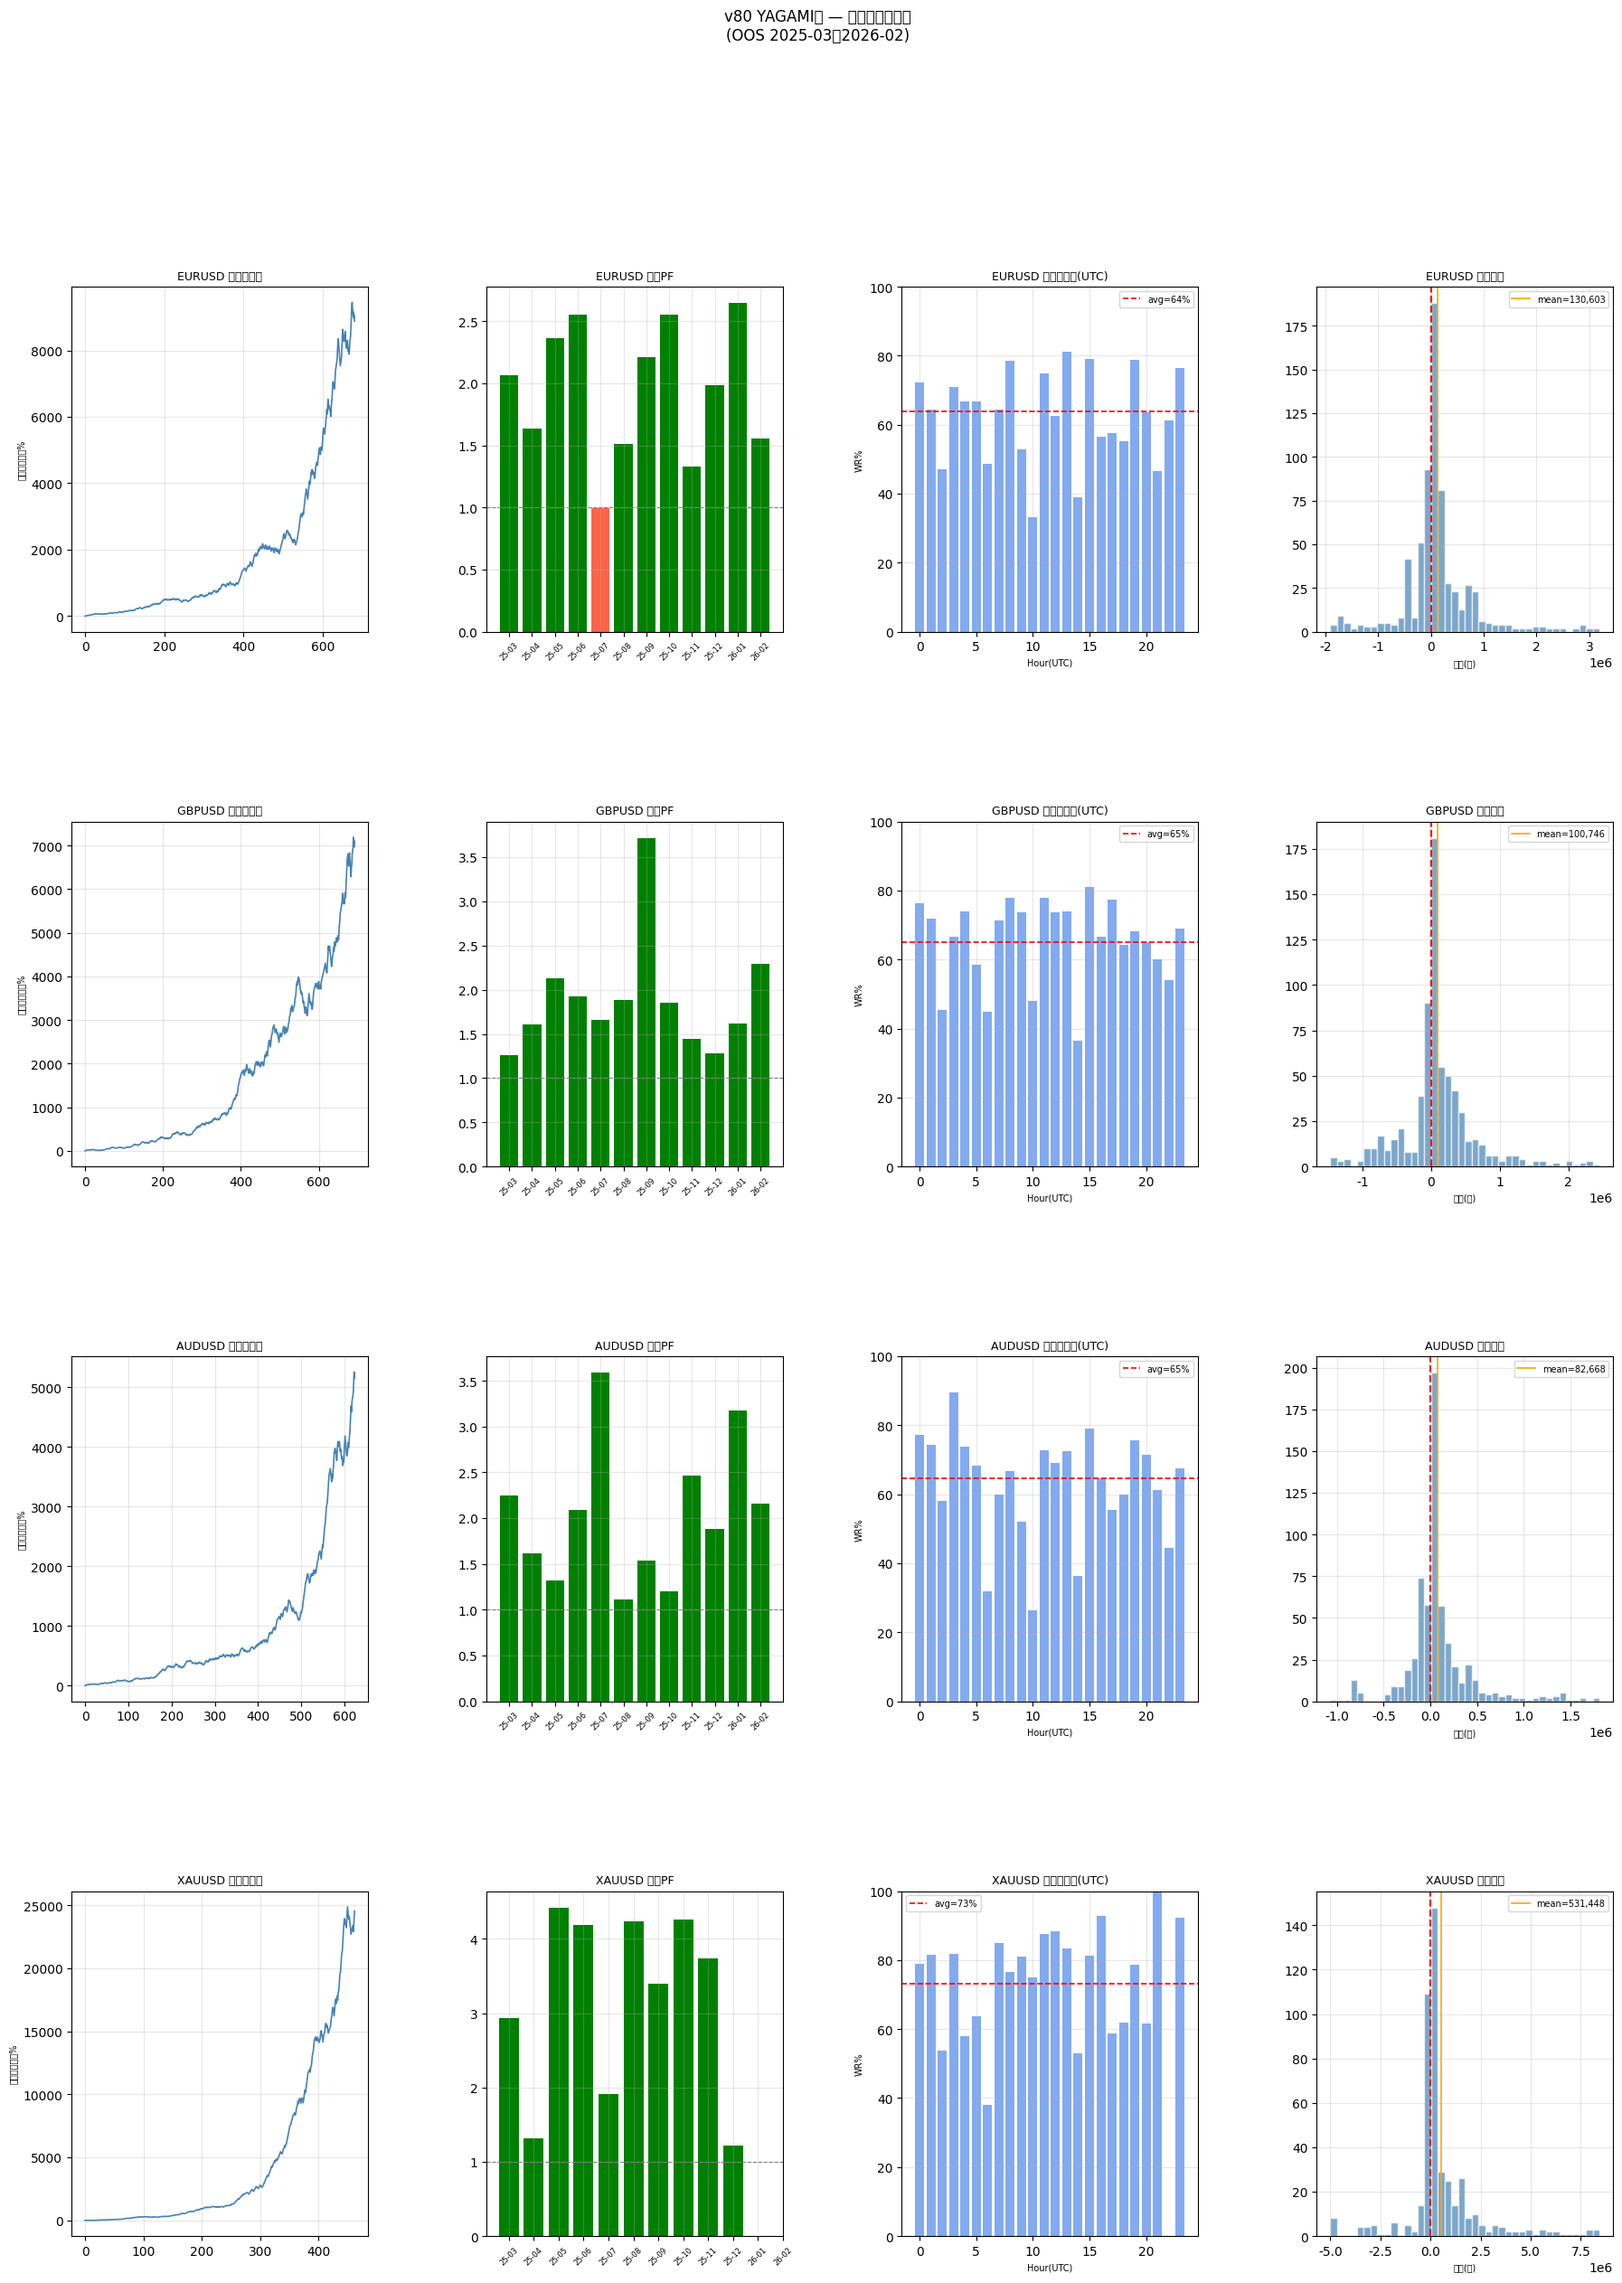
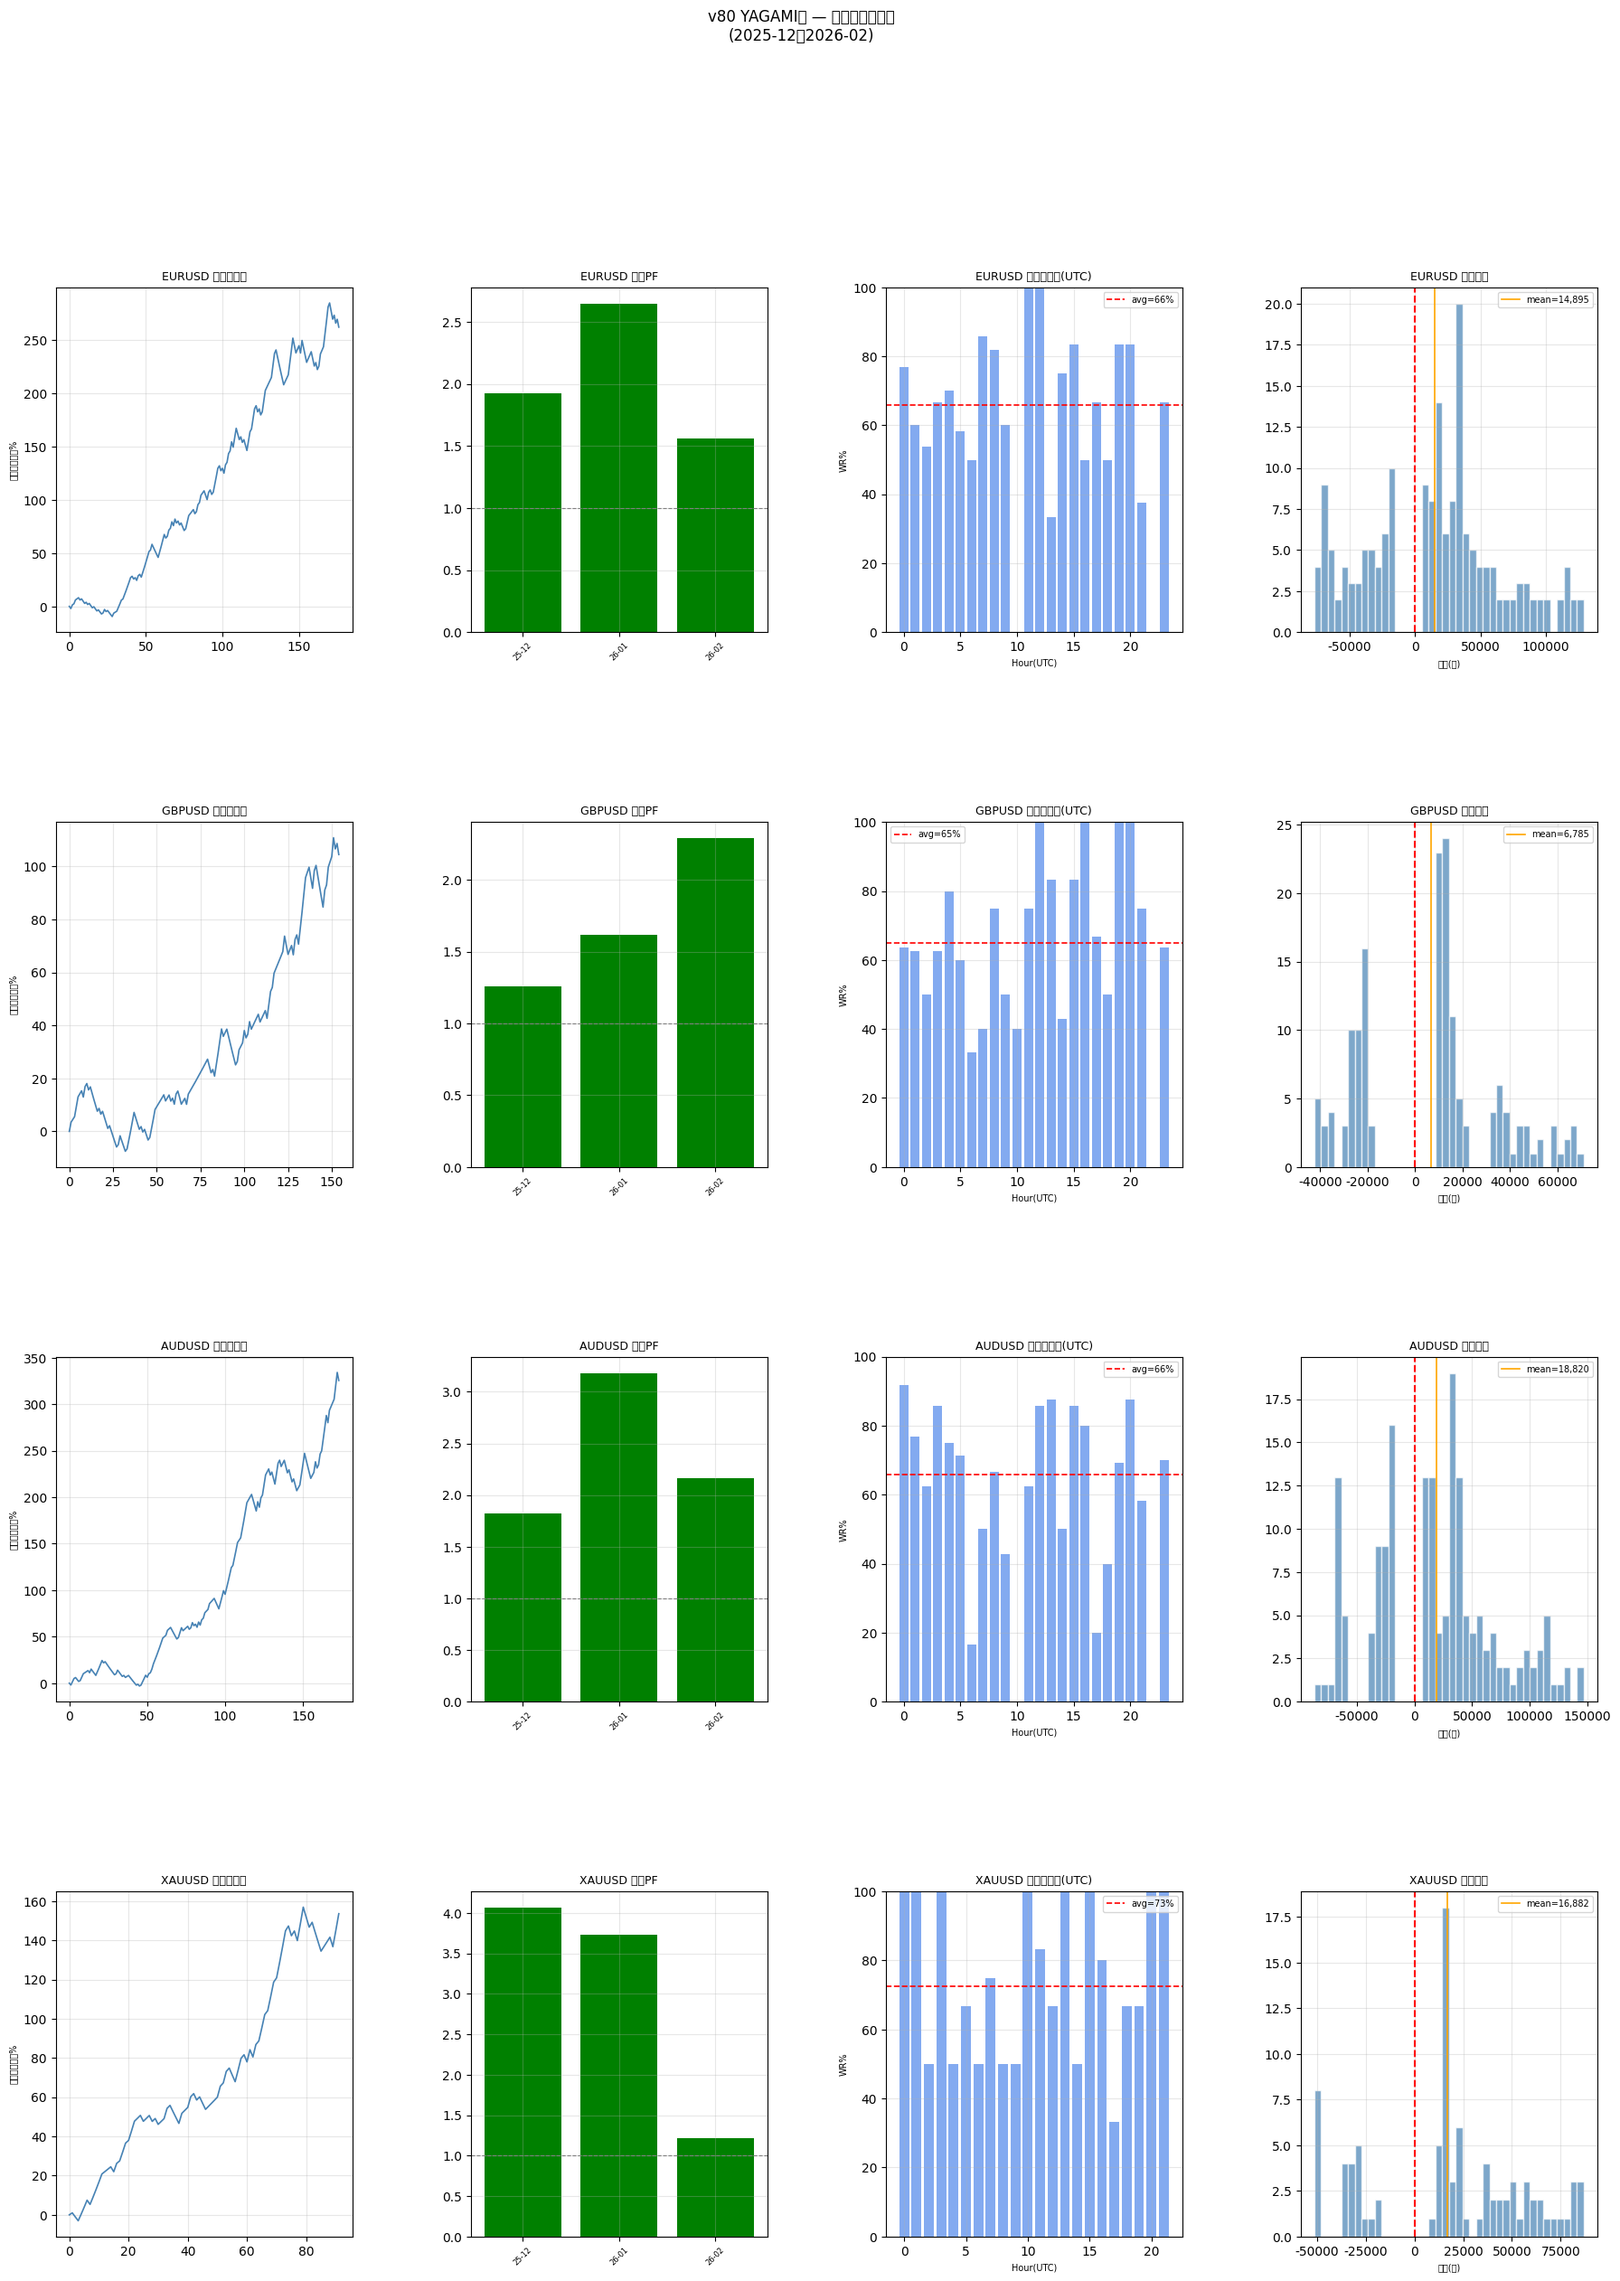
update quant analysis period to 2025-12-01~2026-02-28 (3-month window)
分析期間を直近3ヶ月（2025/12〜2026/02）に変更。

主要発見:
- 時間帯バイアスがFX全銘柄で消失（全OOSでは全銘柄有意）
- XAUUSDの自己相関が大幅改善（Q=69→3.71, p=0.59）
- GBPUSDにLong/Shortバイアス新出（Short優位 p=0.017）
- XAUUSDが2月末にMDD（92%地点）

https://claude.ai/code/session_011hFmDBu7pxieSYtPYpF1W2

diff --git a/scripts/analyze_v80_quant.py b/scripts/analyze_v80_quant.py
@@ -53,8 +53,8 @@ A3_DEFAULT_TOL  = 0.30
 E1_MAX_WAIT_MIN = 5
 E2_SPIKE_ATR_MULT = 2.0
 E2_ALT_WINDOW_MIN = 3
-OOS_START = "2025-03-03"
-OOS_END   = "2026-02-27"
+OOS_START = "2025-12-01"
+OOS_END   = "2026-02-28"
 
 SYMBOLS = [
     {"name": "EURUSD", "lower": "eurusd", "category": "FX",
@@ -656,7 +656,7 @@ def main():
     if not any_flags:
         print("  ✅ 全銘柄で重大な問題点なし")
 
-    plt.suptitle("v80 YAGAMI改 — 定量・計量分析\n(OOS 2025-03〜2026-02)",fontsize=12,y=0.99)
+    plt.suptitle("v80 YAGAMI改 — 定量・計量分析\n(2025-12〜2026-02)",fontsize=12,y=0.99)
     out_png=os.path.join(OUT_DIR,"v80_quant_analysis.png")
     plt.savefig(out_png,dpi=100,bbox_inches="tight")
     print(f"\nグラフ保存: {out_png}")
